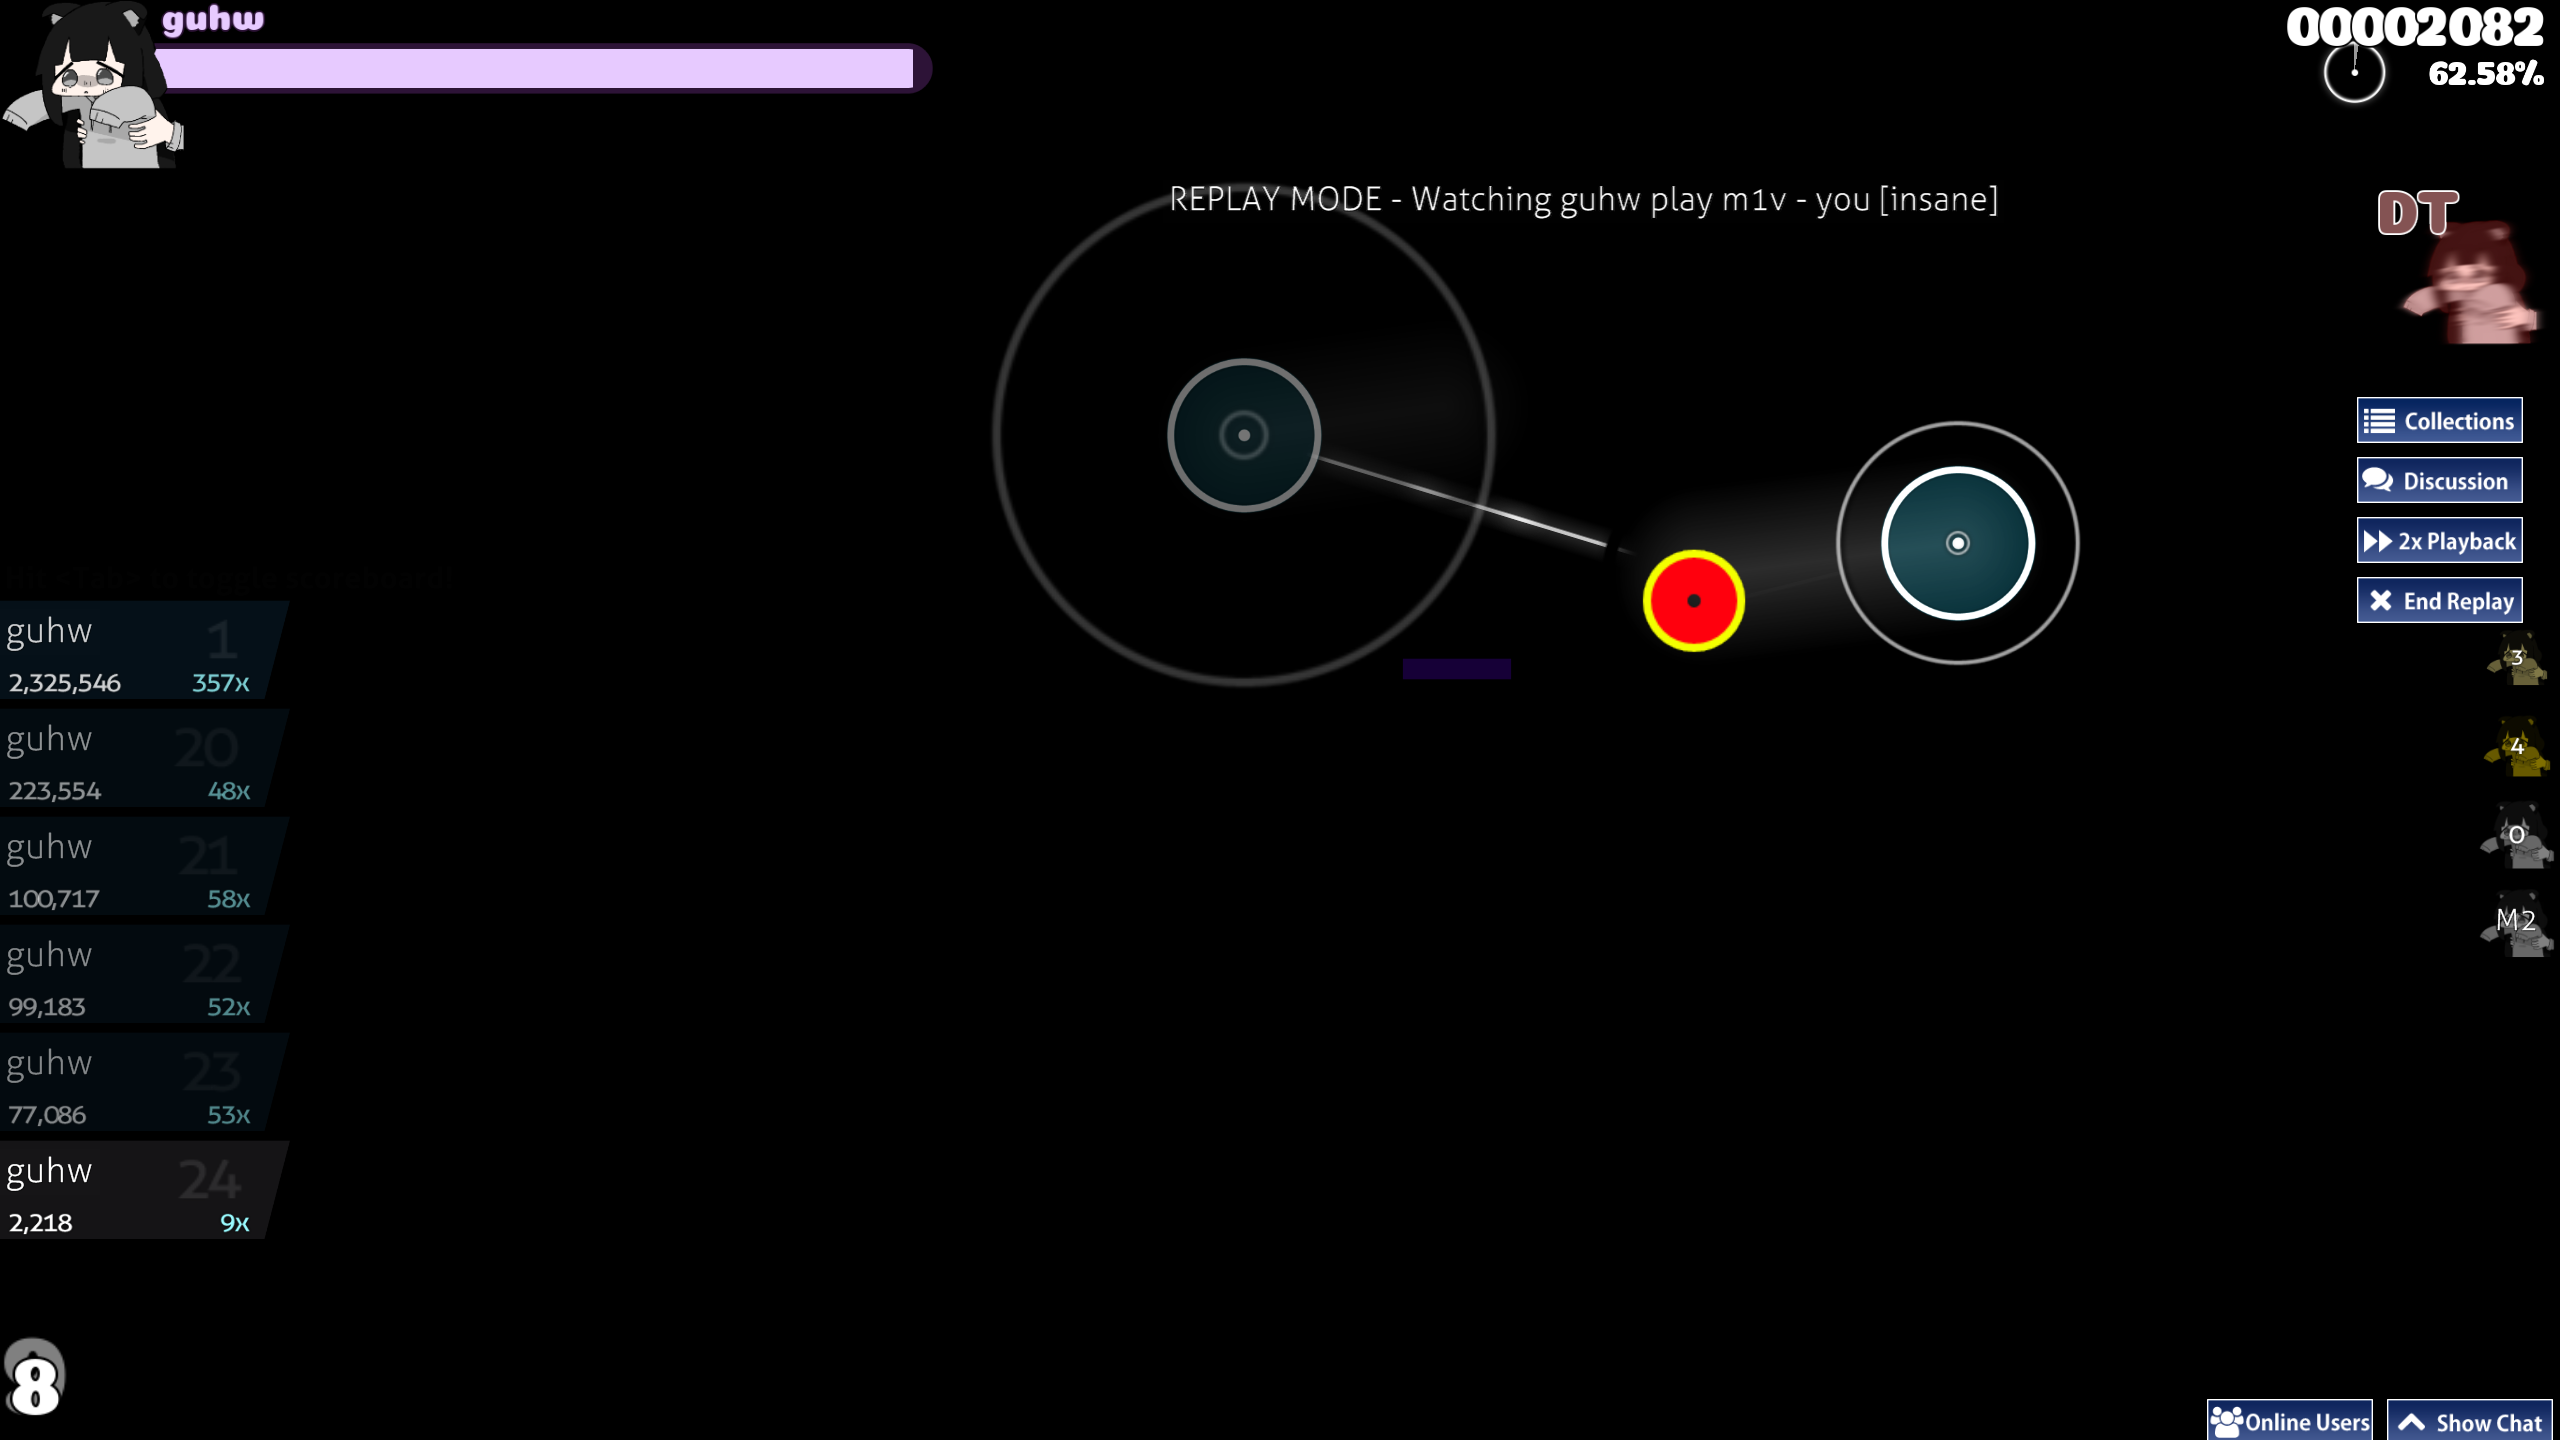
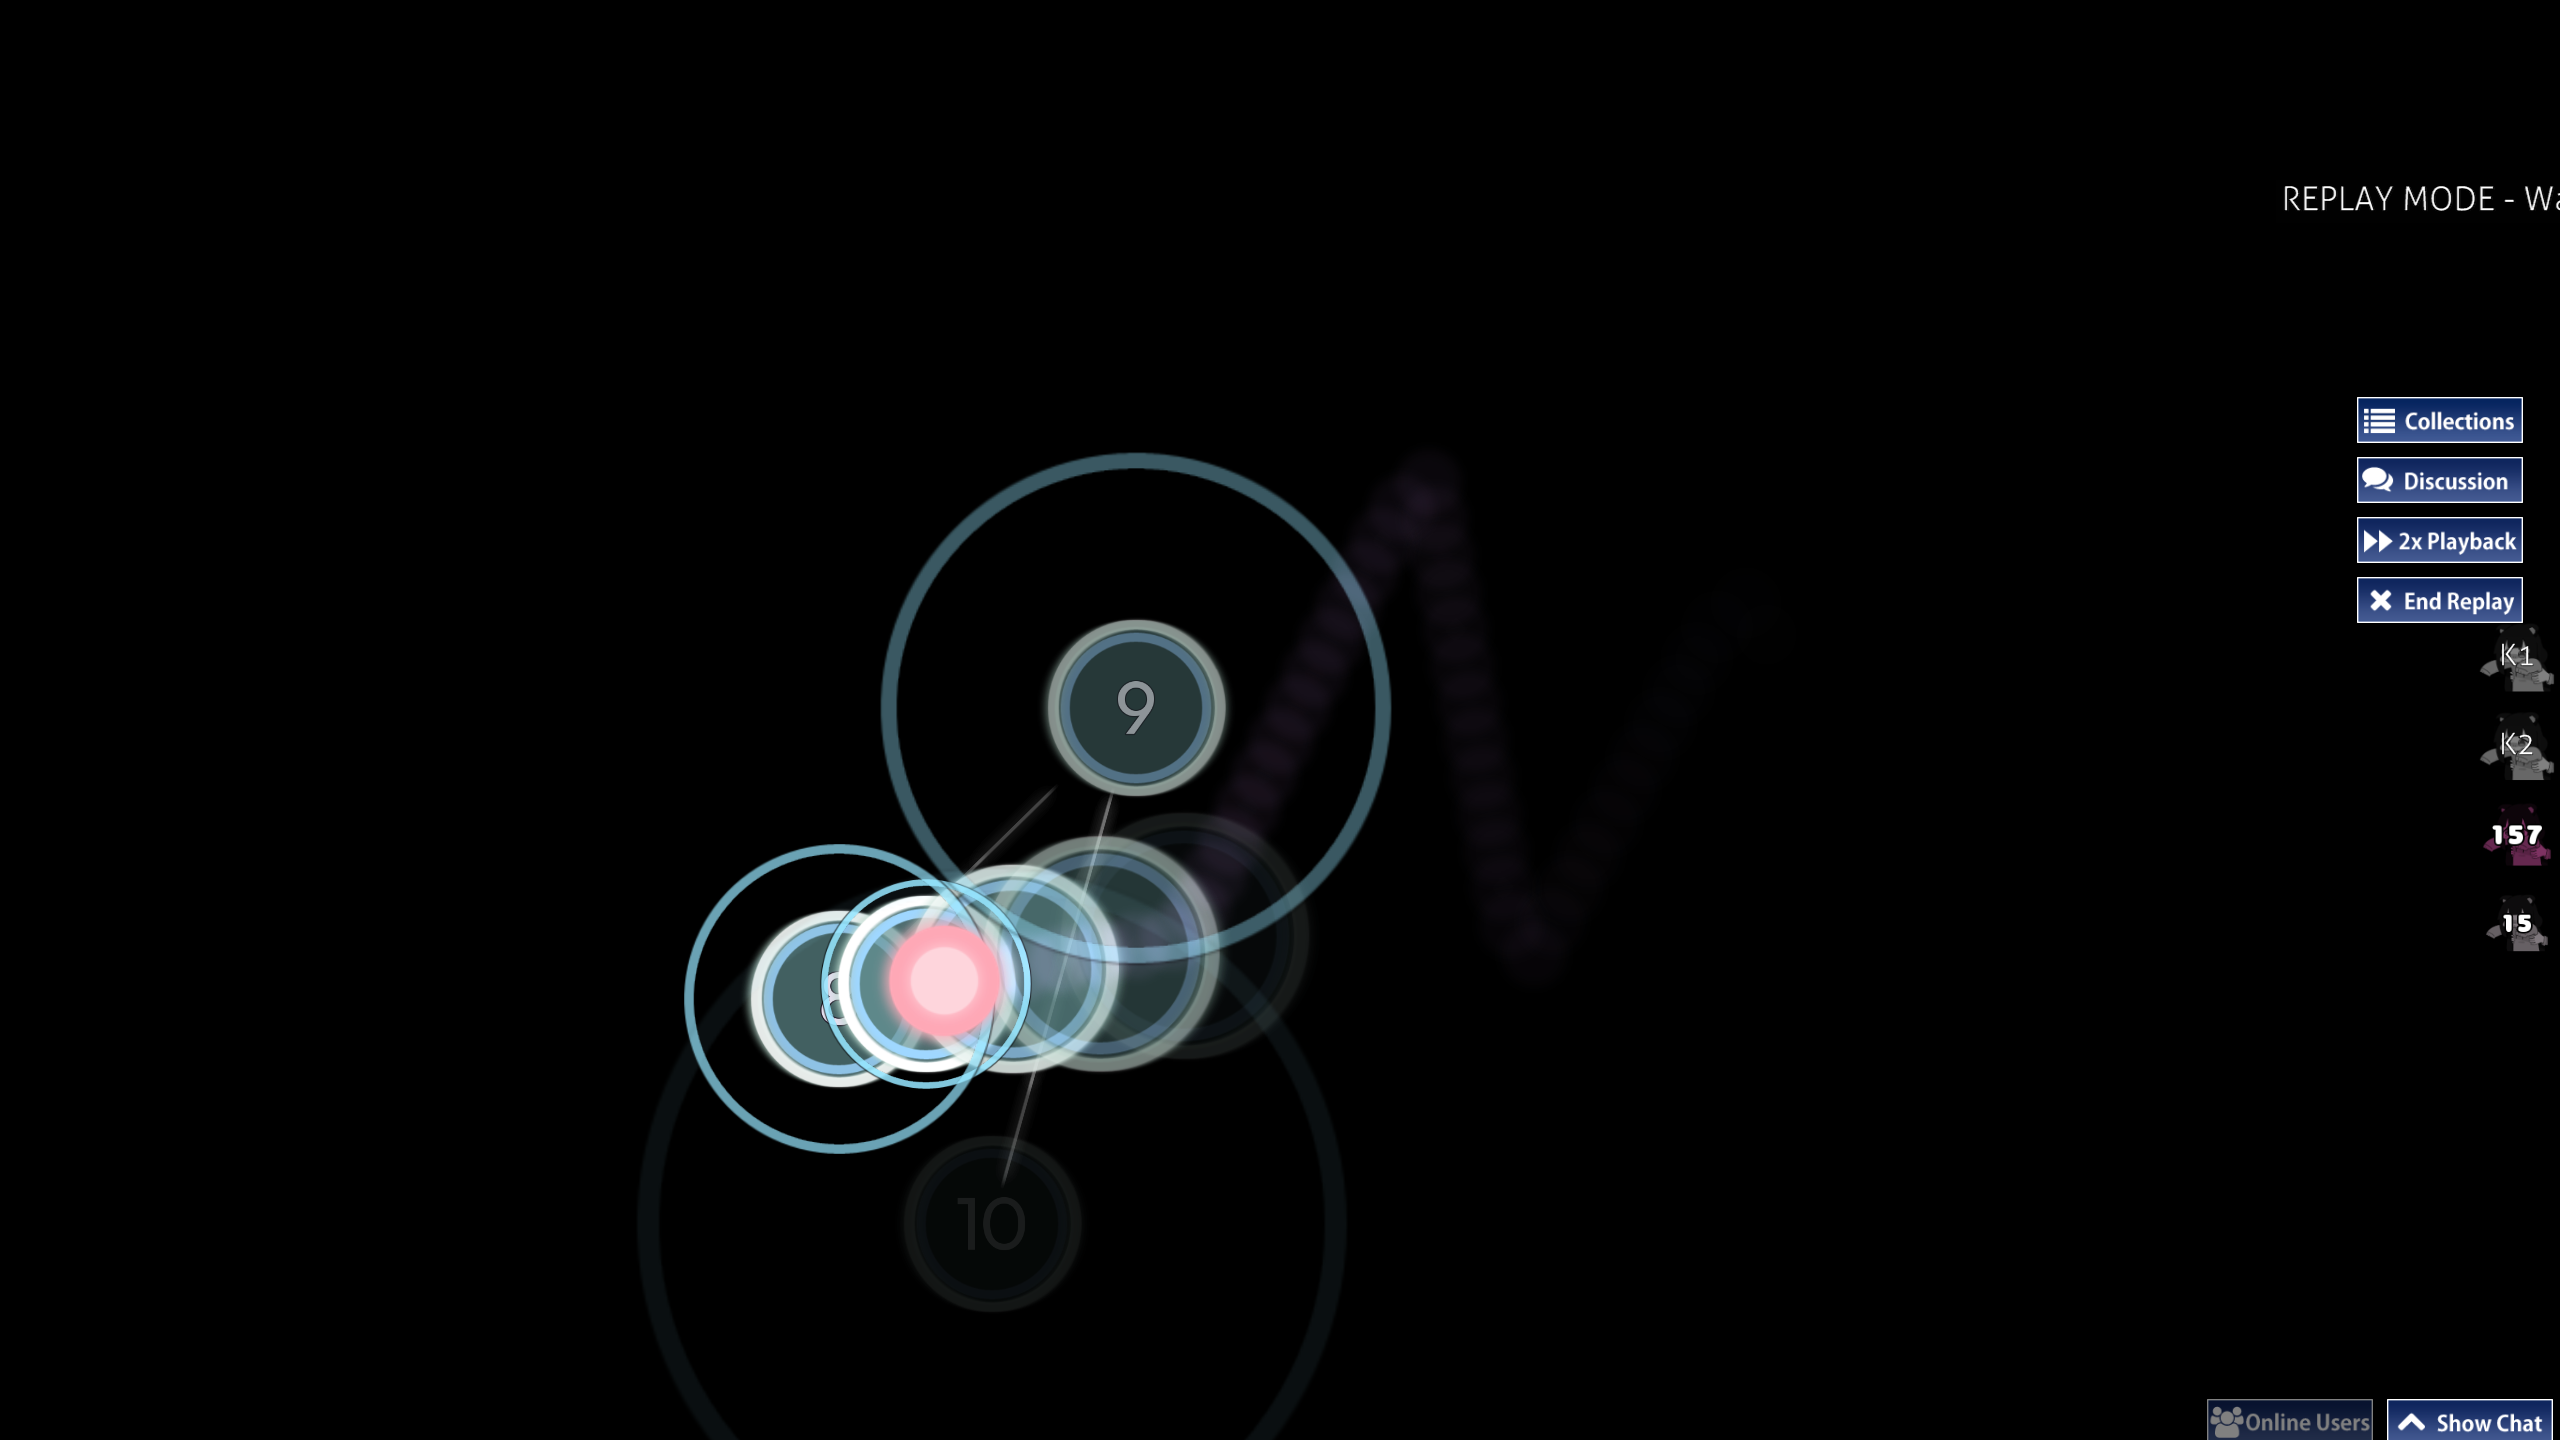
wadkjn,awbhkdjadw

diff --git a/readme.md b/readme.md
@@ -1,10 +1,12 @@
 # guhw OsageBwaa skin
 ## [download here](https://github.com/gustwindy/guhw-bwaa-skin/releases/latest/)
 ![songselect screenshot](screenshots/songselect.png)
-normal version of gameplay will be added soon (meaning numbered and actually looks good instead of for performance)
 ![gameplay screenshot](screenshots/gameplay.png)
 ![mods screenshot](screenshots/mods.png)
 ![ranking screenshot](screenshots/ranking.png)
+
+### Performance variant
+![gameplay (performance) screenshot](screenshots/gameplay2.png)
 
 ## To be added
 These things are planned to be added to the skin soon.
